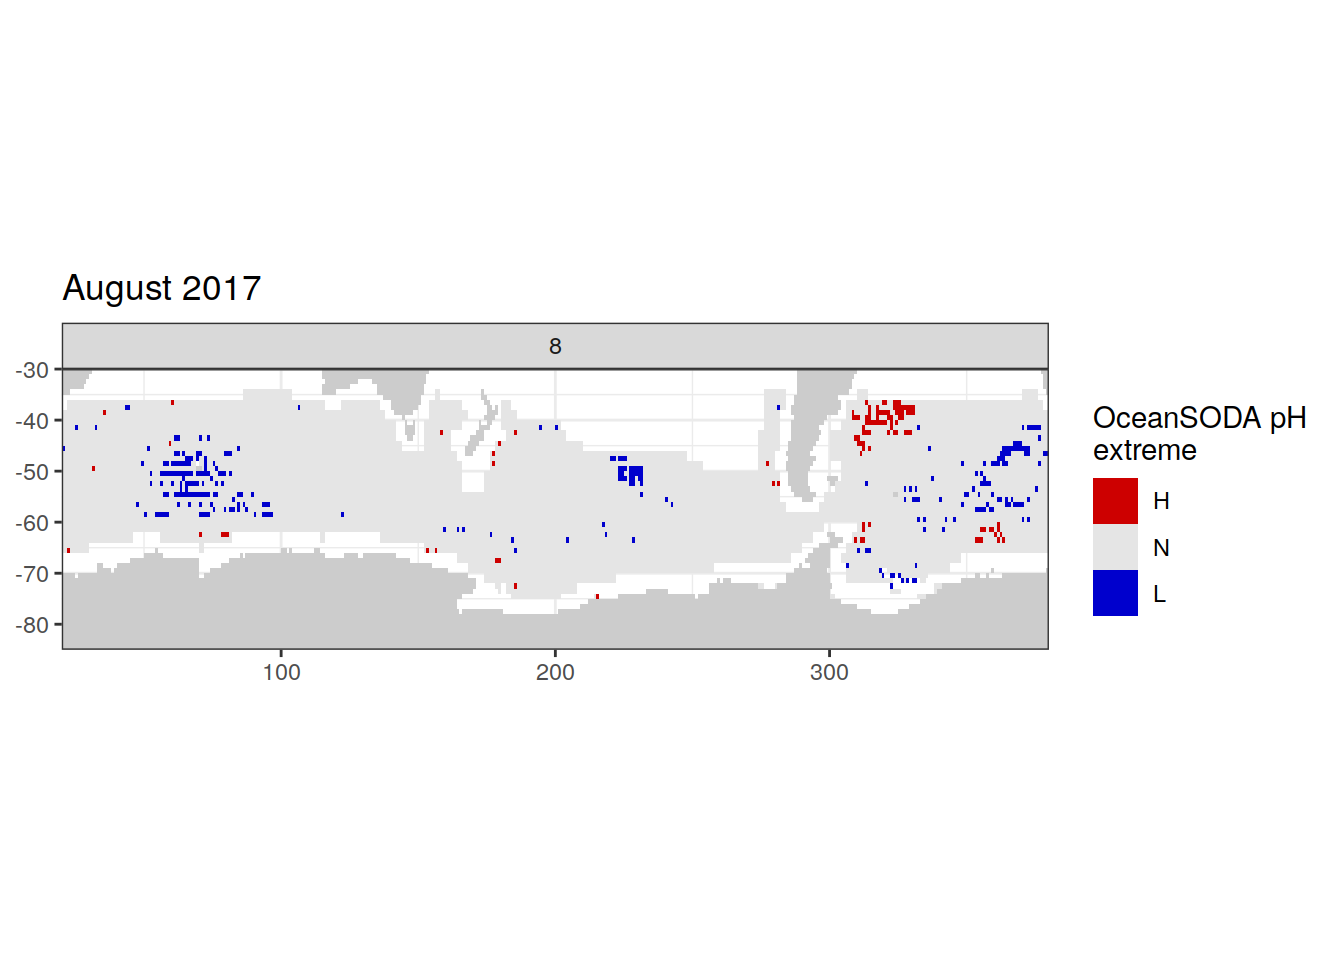
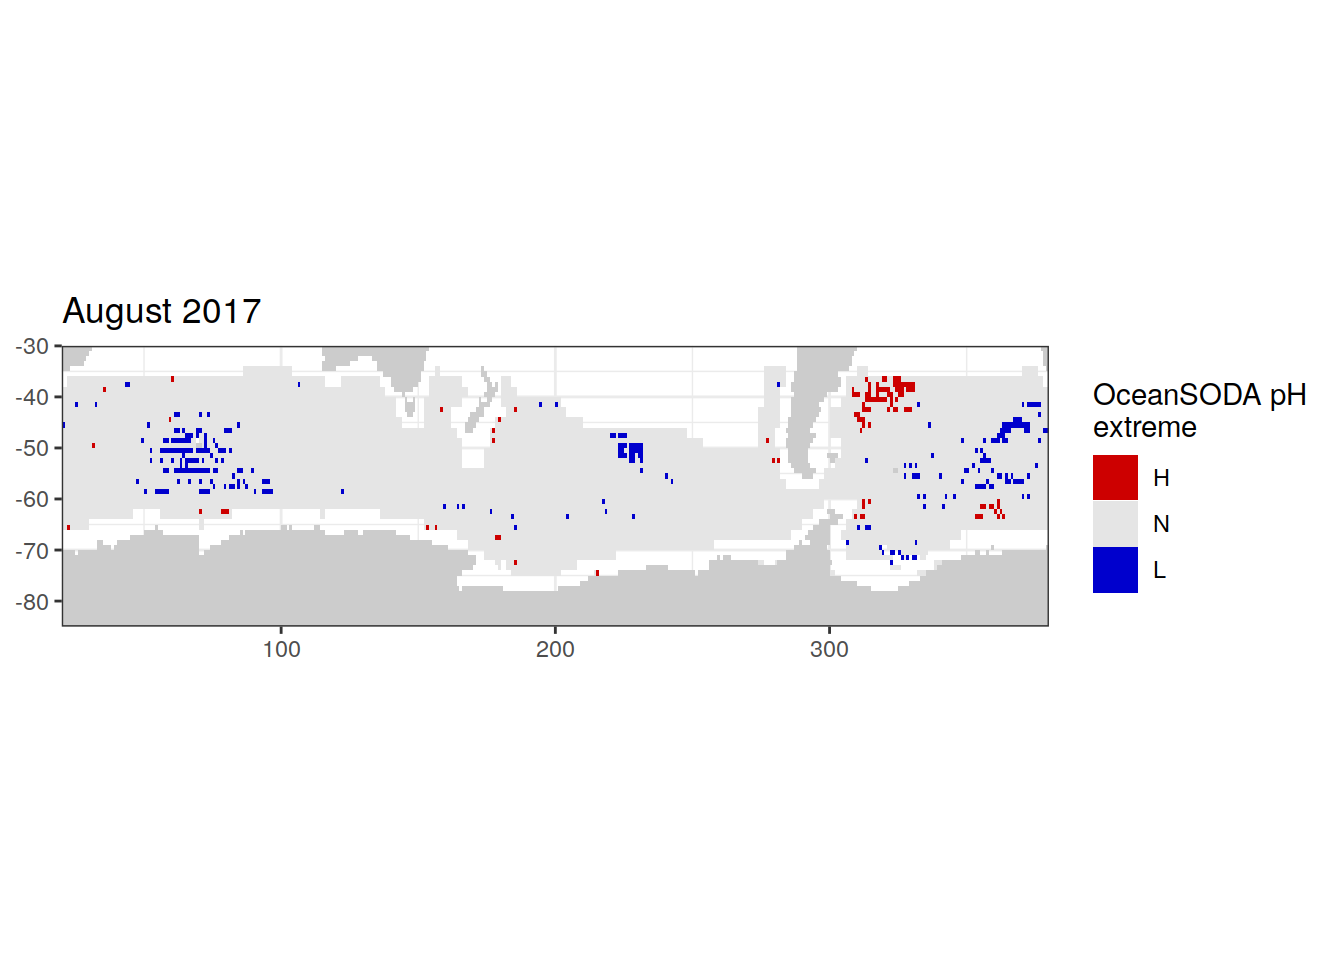
Build site.

Changed region(s): [[0.0, 0.2812, 0.7812, 0.7188], [0.8125, 0.375, 0.9688, 0.6562]]

diff --git a/docs/extreme_pH.html b/docs/extreme_pH.html
@@ -536,16 +536,16 @@ This reproducible <a href="https://rmarkdown.rstudio.com">R Markdown</a> analysi
 <div class="panel panel-default">
 <div class="panel-heading">
 <p class="panel-title">
-<a data-toggle="collapse" data-parent="#workflowr-checks" href="#strongRepositoryversionstrongahrefhttpsgithubcomjensdanielmuellerbgcargorargodatatree9ccabc6941cb203880c4254ef513fd04a3dec692targetblank9ccabc6a"> <span class="glyphicon glyphicon-ok text-success" aria-hidden="true"></span> <strong>Repository version:</strong> <a href="https://github.com/jens-daniel-mueller/bgc_argo_r_argodata/tree/9ccabc6941cb203880c4254ef513fd04a3dec692" target="_blank">9ccabc6</a> </a>
+<a data-toggle="collapse" data-parent="#workflowr-checks" href="#strongRepositoryversionstrongahrefhttpsgithubcomjensdanielmuellerbgcargorargodatatree5a073cbfedc7feaea119257c6352f849e8b72fe0targetblank5a073cba"> <span class="glyphicon glyphicon-ok text-success" aria-hidden="true"></span> <strong>Repository version:</strong> <a href="https://github.com/jens-daniel-mueller/bgc_argo_r_argodata/tree/5a073cbfedc7feaea119257c6352f849e8b72fe0" target="_blank">5a073cb</a> </a>
 </p>
 </div>
[2 lines of base64/hex data omitted]
 <div class="panel-body">
 <p>
 Great! You are using Git for version control. Tracking code development and connecting the code version to the results is critical for reproducibility.
 </p>
 <p>
-The results in this page were generated with repository version <a href="https://github.com/jens-daniel-mueller/bgc_argo_r_argodata/tree/9ccabc6941cb203880c4254ef513fd04a3dec692" target="_blank">9ccabc6</a>. See the <em>Past versions</em> tab to see a history of the changes made to the R Markdown and HTML files.
+The results in this page were generated with repository version <a href="https://github.com/jens-daniel-mueller/bgc_argo_r_argodata/tree/5a073cbfedc7feaea119257c6352f849e8b72fe0" target="_blank">5a073cb</a>. See the <em>Past versions</em> tab to see a history of the changes made to the R Markdown and HTML files.
 </p>
 <p>
 Note that you need to be careful to ensure that all relevant files for the analysis have been committed to Git prior to generating the results (you can use <code>wflow_publish</code> or <code>wflow_git_commit</code>). workflowr only checks the R Markdown file, but you know if there are other scripts or data files that it depends on. Below is the status of the Git repository when the results were generated:
@@ -601,6 +601,40 @@ Message
 </tr>
 </thead>
 <tbody>
+<tr>
+<td>
+Rmd
+</td>
+<td>
+<a href="https://github.com/jens-daniel-mueller/bgc_argo_r_argodata/blob/5a073cbfedc7feaea119257c6352f849e8b72fe0/analysis/extreme_pH.Rmd" target="_blank">5a073cb</a>
+</td>
+<td>
+pasqualina-vonlanthendinenna
+</td>
+<td>
+2022-03-02
+</td>
+<td>
+removed facet wrap
+</td>
+</tr>
+<tr>
+<td>
+html
+</td>
+<td>
+<a href="https://rawcdn.githack.com/jens-daniel-mueller/bgc_argo_r_argodata/9d97f2521a167ffdd9bcfa540a18267d32bb03b7/docs/extreme_pH.html" target="_blank">9d97f25</a>
+</td>
+<td>
+pasqualina-vonlanthendinenna
+</td>
+<td>
+2022-03-02
+</td>
+<td>
+Build site.
+</td>
+</tr>
 <tr>
 <td>
 Rmd
@@ -9232,7 +9266,6 @@ map+
             aes(x = lon,
                 y = lat,
                 fill = ph_extreme))+
-  facet_wrap(~month, ncol = 1)+
   scale_fill_manual(values = HNL_colors_map)+
   lims(y = c(-85, -30))+
   labs(title = &#39;August 2017&#39;,
